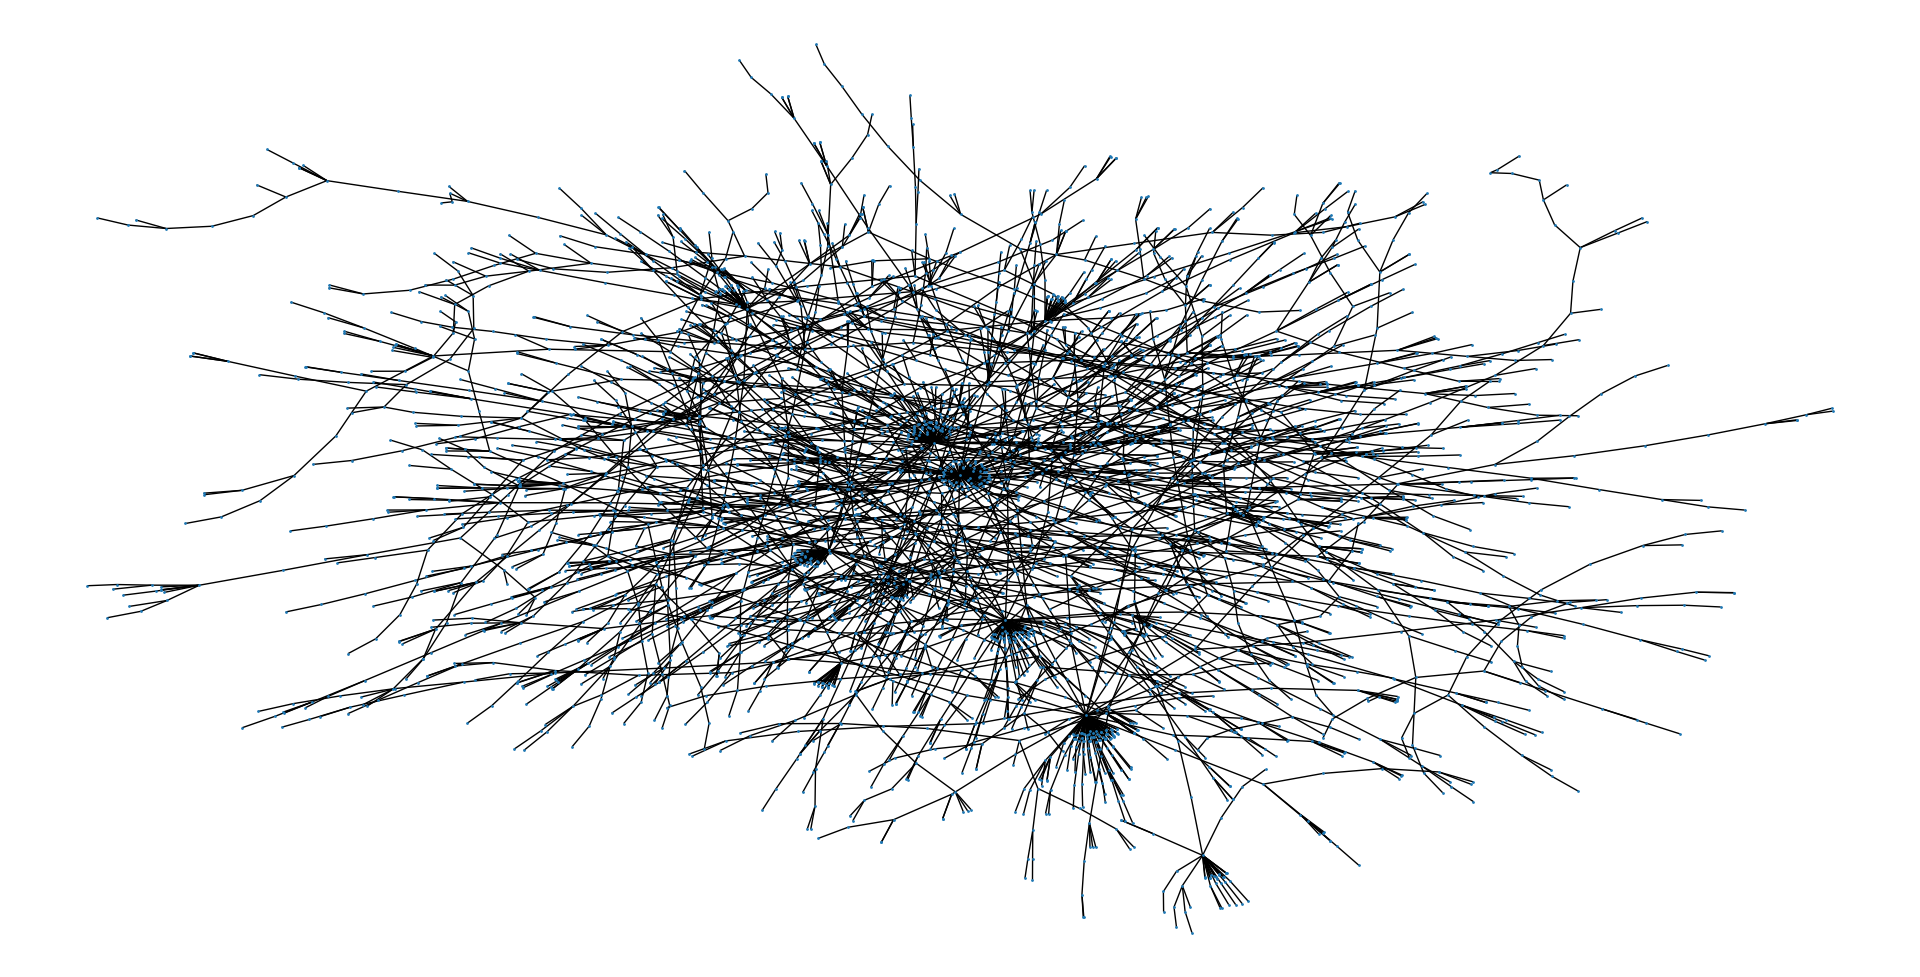
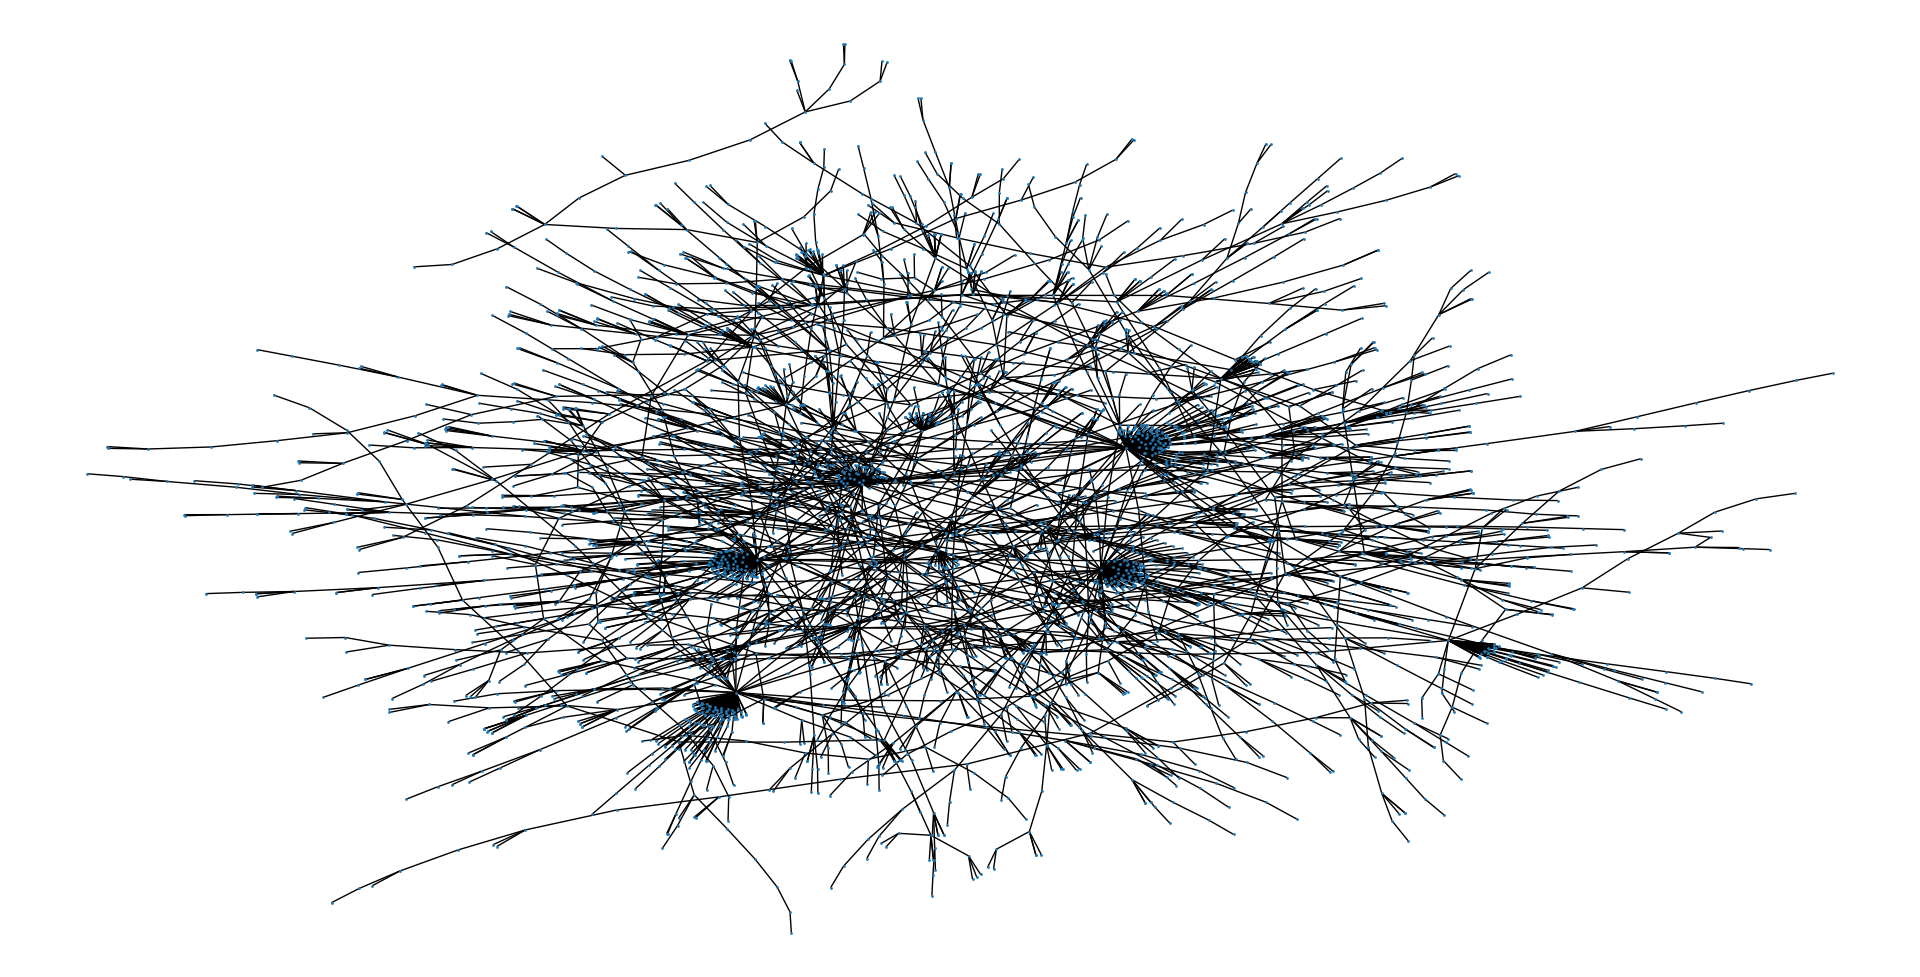
Add possibilities to add noise

diff --git a/AffinityClustering.py b/AffinityClustering.py
@@ -8,6 +8,7 @@ from argparse import ArgumentParser
 
 from Plotter import *
 from DataReader import *
+from DataModifier import *
 
 
 def get_clustering_data():
@@ -111,13 +112,6 @@ def find_leader(_lambda):
         cnt = 0
         while v not in S:
             S.append(v)
-            if v is None:
-                print(u, nu)
-                print('cnt: ', cnt)
-                print('prev', prev)
-                print('lambda', _lambda[prev])
-                print('lambda', _lambda)
-                quit()
             prev = v
             v = _lambda[v]
             cnt += 1
@@ -137,6 +131,7 @@ def affinity_clustering(adj, vertex_coordinates, plot_intermediate, num_clusters
 
     i = 0
     imax = 20
+    contracted_leader = [None] * len(adj)
     while i < imax:
         if len(graph) <= num_clusters:
             break
@@ -167,13 +162,22 @@ def affinity_clustering(adj, vertex_coordinates, plot_intermediate, num_clusters
                 yhat[v] = c
         yhats.append(yhat)
 
+        for j in range(len(adj)):
+            if contracted_leader[j] is None:
+                if yhat[j] != j:
+                    contracted_leader[j] = yhat[j]
+
         # Contraction
         rdd = (rdd.map(map_contract_graph(_lambda=_lambda, leader=leader))
                .foldByKey([], reduce_contract_graph(leader)))
         graph = rdd.collect()
         i += 1
 
-    return i, graph, yhats
+    for j in range(len(adj)):
+        if contracted_leader[j] is None:
+            contracted_leader[j] = yhat[j]
+
+    return i, graph, yhats, contracted_leader
 
 
 def get_nearest_neighbours(V, k=5, leaf_size=2, buckets=False):
@@ -228,33 +232,38 @@ def create_buckets(E, alpha, beta, W):
         else:
             buckets.append((prev_end, W + 0.00001))
 
+    bucket_counter = [0] * len(buckets)
+
     for key in E:
         for edge in E[key]:
             bucket_number = 1
             for bucket in buckets:
                 if bucket[0] <= E[key][edge] < bucket[1]:
                     E[key][edge] = bucket_number
+                    bucket_counter[bucket_number - 1] += 1
                     break
                 bucket_number += 1
-    return E, buckets
+    return E, buckets, bucket_counter
 
 
-def shift_edge_weights(E, gamma=0.01):
+def shift_edge_weights(E, gamma=0.05):
     max_weight = 0
     for key in E:
         for edge in E[key]:
-            # TODO: fix shift (remove np.random.uniform(0, 100) +)
-            E[key][edge] = np.random.uniform(0, 100) + max(E[key][edge] * np.random.uniform(-gamma, gamma), 0)
+            # TODO: fix shift (remove 100 *)
+            E[key][edge] = 100 * max(E[key][edge] + (np.random.uniform(-gamma, gamma)) * E[key][edge], 0)
             max_weight = max(E[key][edge], max_weight)
     return E, max_weight
 
 
 def main():
     parser = ArgumentParser()
-    parser.add_argument('--test', help='Used for smaller dataset and testing', action='store_true')
     parser.add_argument('--epsilon', help='epsilon [default=1/8]', type=float, default=1 / 8)
     parser.add_argument('--machines', help='Number of machines [default=1]', type=int, default=1)
-    parser.add_argument('--buckets', help='Use buckets [default=False]', type=bool, default=False)
+    parser.add_argument('--buckets', help='Use buckets [default=False]', action='store_true')
+    parser.add_argument('--getdata', help='save data to file', action='store_true')
+    parser.add_argument('--datasets', help='use sklearn datasets', action='store_true')
+    parser.add_argument('--test', help='Test', action='store_true')
     args = parser.parse_args()
 
     print('Start generating MST')
@@ -269,36 +278,92 @@ def main():
 
     # Read data
     data_reader = DataReader()
-    loc = 'datasets/CA-AstroPh.txt'
-    V, size, E = data_reader.read_data_set_from_txtfile(loc)
+    loc = 'datasets/sklearn/data_two_circles.csv'
+    #V, size, E = data_reader.read_data_set_from_txtfile(loc)
+    V, size = data_reader.read_vertex_list(loc)
     print('Read dataset: ', loc)
+
+    # Parameters
+    beta = 0.5  # 0 <= beta <= 1 (buckets)
+    alpha = 0.1  # shift of buckets
+    gamma = 0.05  # shift of edge weights
+
+    add_noise = True
+    if add_noise:
+        dm = DataModifier()
+        # V, size = dm.add_gaussian_noise(V)
+        V, size = dm.add_clustered_noise(V, 'vertical_line')
+
+
+    if args.test:
+        E, size, vertex_coordinates, W = data_reader.create_distance_matrix(V, full_dm=True)
+        for i in range(10):
+            E_copy = deepcopy(E)
+            E_changed, W = shift_edge_weights(E_copy, gamma)
+            E_changed, buckets, counter = create_buckets(E_changed, alpha, beta, W)
+            print('Run', i)
+            print('Buckets: ', buckets)
+            print('Counter: ', counter)
+        quit()
+
+    runs, graph, yhats, contracted_leader = run(V, size - 1, data_reader, beta, alpha, gamma, buckets=args.buckets)
+    plotter.plot_cluster(yhats[runs - 1], contracted_leader, V)
+    # plotter.plot_yhats([contracted_leader], V)
+    print('Graph size: ', len(graph), graph)
+    print('Runs: ', runs)
+    print('yhats: ', yhats[runs - 1])
+    quit()
+
+    # runs1, graph1, yhats1, contracted_leader = run(V, 1499, data_reader, beta, alpha, gamma, buckets=args.buckets)
+    # print('Graph size: ', len(graph1), graph1)
+    # print('Runs: ', runs1)
+    # print('yhats: ', yhats1[runs1 - 1])
+    #
+    # print(runs, runs1)
+    # difference = []
+    # for i in range(min(runs1, runs)):
+    #     diff = 0
+    #     for j in range(len(yhats1[i])):
+    #         if yhats1[i][j] != yhats[i][j]:
+    #             diff += 1
+    #     difference.append(diff)
+    # print(difference)
+
+    # plotter.plot_yhats(yhats, V)
 
     # Toy datasets
     datasets = get_clustering_data()
-
     timestamp = datetime.now()
     for dataset in datasets:
+        if not args.datasets:
+            continue
         k = 1499
-        if args.buckets:
-            beta = 0.5  # 0 <= beta <= 1 (buckets)
-            alpha = 0.1  # shift of buckets
-            gamma = 0.001  # shift of edge weights
+        if args.getdata:
+            with open('test.csv', 'w') as f:
+                writer = csv.writer(f)
+                for line in dataset[0][0]:
+                    writer.writerow(line)
+            quit()
 
-            E, size, vertex_coordinates, W = data_reader.create_distance_matrix(dataset[0][0], full_dm=True)
-            E, W = shift_edge_weights(E, gamma)
-            E, buckets = create_buckets(E, alpha, beta, W)
-            k = len(vertex_coordinates) - 1
-            adjacency_list = get_nearest_neighbours(E, k, buckets=True)
-        else:
-            adjacency_list = get_nearest_neighbours(dataset[0][0], k)
-
-        runs, graph, yhats = affinity_clustering(adjacency_list, vertex_coordinates=None, plot_intermediate=False)
+        runs, graph, yhats, contracted_leader = run(dataset[0][0], k, data_reader, beta=beta, alpha=alpha, gamma=gamma,
+                                 buckets=args.buckets)
         print('Graph size: ', len(graph), graph)
         print('Runs: ', runs)
         print('yhats: ', yhats[runs - 1])
 
         plotter.plot_yhats(yhats, dataset[0][0])
 
+
+def run(V, k, data_reader, beta=0.0, alpha=0.0, gamma=0.0, buckets=False):
+    if buckets:
+        E, size, vertex_coordinates, W = data_reader.create_distance_matrix(V, full_dm=True)
+        E, W = shift_edge_weights(E, gamma)
+        E, buckets, counter = create_buckets(E, alpha, beta, W)
+        k = len(vertex_coordinates) - 1
+        adjacency_list = get_nearest_neighbours(E, k, buckets=True)
+    else:
+        adjacency_list = get_nearest_neighbours(V, k)
+    return affinity_clustering(adjacency_list, vertex_coordinates=None, plot_intermediate=False)
 
 if __name__ == '__main__':
     # Initial call to main function

diff --git a/DataModifier.py b/DataModifier.py
@@ -1,0 +1,70 @@
+import math
+import sys
+
+import numpy as np
+from sklearn.datasets import make_circles
+
+
+class DataModifier:
+
+    def __init__(self):
+        pass
+
+    def add_gaussian_noise(self, V, noise=0.1):
+        max_x, max_y = -1.0, 1.0
+        min_x, min_y = sys.maxsize, sys.maxsize
+        for v in V:
+            max_x = max(max_x, v[0])
+            max_y = max(max_y, v[1])
+            min_x = min(min_x, v[0])
+            min_y = min(min_y, v[1])
+
+        size = int(np.ceil(len(V) * noise))
+        for i in range(size):
+            x = np.random.uniform(min_x, max_x)
+            y = np.random.uniform(min_y, max_y)
+            V.append((x, y))
+        return V, len(V)
+
+    def add_clustered_noise(self, V, type='', noise=0.1):
+        max_x, max_y = -1.0, 1.0
+        min_x, min_y = sys.maxsize, sys.maxsize
+        for v in V:
+            max_x = max(max_x, v[0])
+            max_y = max(max_y, v[1])
+            min_x = min(min_x, v[0])
+            min_y = min(min_y, v[1])
+
+        size = int(np.ceil(len(V) * noise))
+        if type == '':
+            NotImplementedError('No parameter given')
+        elif type == 'circle':
+            center = ((max_x + min_x) / 2, (max_y + min_y) / 2)
+            radius = min(max_x - min_x, max_y - min_y) * 0.7
+            pi = math.pi
+            for i in range(size):
+                V.append((math.cos(2 * pi / size * i) * radius + center[0],
+                          math.sin(2 * pi / size * i) * radius + center[1]))
+        elif type == 'horizontal_line':
+            y_center = (max_y + min_y) / 2
+            interval = (max_y - min_y) / size
+            current_x = min_x
+            for i in range(size):
+                V.append((current_x, y_center))
+                current_x += interval
+        elif type == 'vertical_line':
+            x_center = (max_x + min_x) / 2
+            interval = (max_x - min_x) / size
+            current_y = min_y
+            for i in range(size):
+                V.append((x_center, current_y))
+                current_y += interval
+        else:
+            NotImplementedError('%s not implemented' % type)
+        return V, len(V)
+
+    def delete_data(self, V, dataset=''):
+        if dataset == '':
+            NotImplementedError('No parameter given')
+        else:
+            NotImplementedError('%s not implemented' % dataset)

diff --git a/Plotter.py b/Plotter.py
@@ -324,12 +324,38 @@ class Plotter:
         for x_c, y_c in vertex_coordinates:
             x.append(float(x_c))
             y.append(float(y_c))
-
         for yhat in yhats:
             plt.scatter(x, y, c=c, s=area)
             for i in range(n):
                 linex = [x[i], x[yhat[i]]]
                 liney = [y[i], y[yhat[i]]]
                 plt.plot(linex, liney, self.colors[i % len(self.colors)])
-
             plt.show()
+
+    def plot_cluster(self, yhat, final, vertex_coordinates):
+        clusters = set()
+        for v in yhat:
+            clusters.add(v)
+        color_ids = []
+        for item in clusters:
+            color_ids.append(item)
+        x = []
+        y = []
+        n = len(vertex_coordinates)
+        c = ['k'] * n
+        area = [0.1] * n
+        for x_c, y_c in vertex_coordinates:
+            x.append(float(x_c))
+            y.append(float(y_c))
+        plt.scatter(x, y, c=c, s=area)
+        for i in range(n):
+            cluster = yhat[i]
+            color = self.colors[0]
+            for j in range(len(color_ids)):
+                if cluster == color_ids[j]:
+                    color = self.colors[j]
+                    break
+            linex = [x[i], x[final[i]]]
+            liney = [y[i], y[final[i]]]
+            plt.plot(linex, liney, color)
+        plt.show()

diff --git a/DataReader.py b/DataReader.py
@@ -182,3 +182,11 @@ class DataReader:
                             dict2[j] = d_matrix[i][j]
                     dict[i] = dict2
         return dict, size, vertices, max_weight
+
+    def read_vertex_list(self, file_location):
+        vertices = []
+        with open(file_location) as csv_file:
+            csv_reader = csv.reader(csv_file, delimiter=',')
+            for row in csv_reader:
+                vertices.append((float(row[0]), float(row[1])))
+        return vertices, len(vertices)
